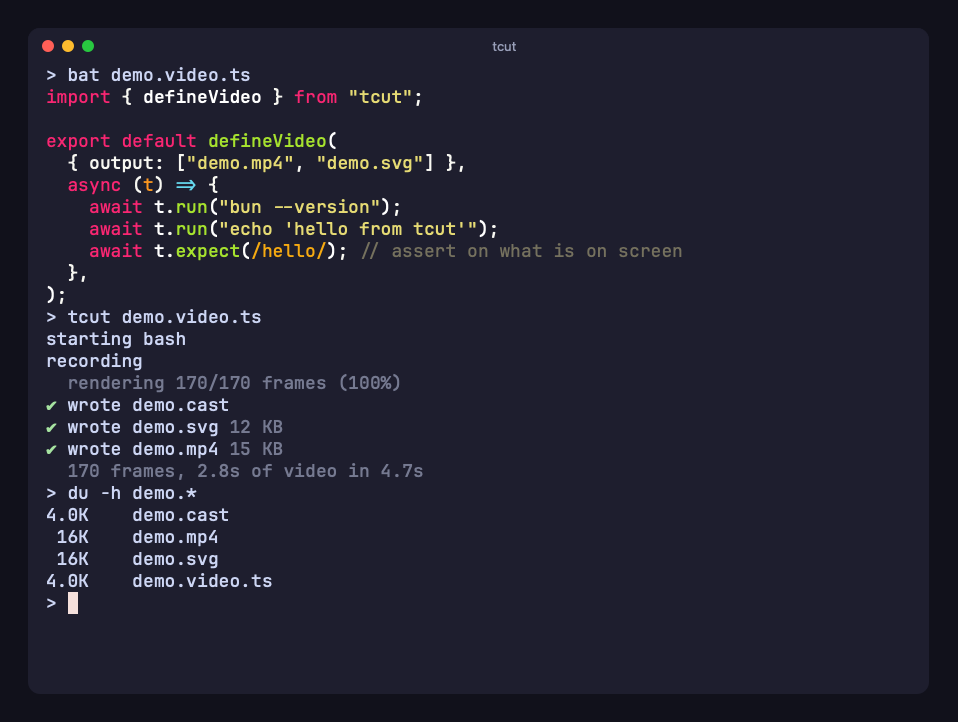
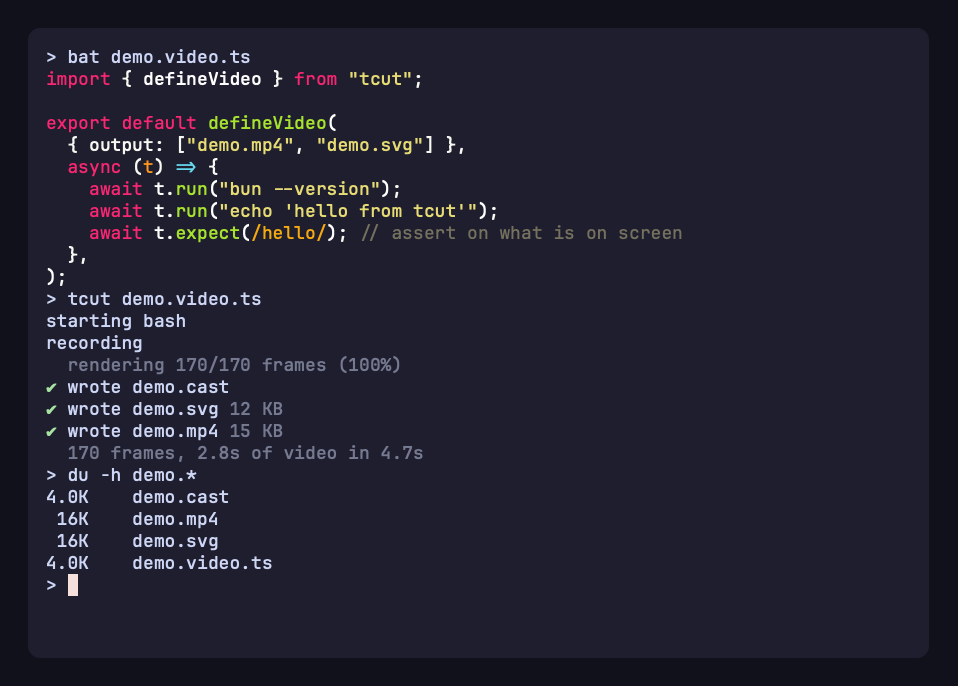
fix(web): remove the remaining stock landing-page furniture
No fake shell prompt in the install box, no macOS window bar on the demo
SVG (regenerated from the cast with windowBar none), neutral list marks
instead of accent-colored dashes and step counters, and slogan lines
replaced with plain statements.

diff --git a/apps/web/scripts/media.ts b/apps/web/scripts/media.ts
@@ -14,8 +14,8 @@ const rec = await readCast(cast);
 const base = rec.header.bunVideo;
 if (!base) throw new Error("demo.cast has no embedded tcut config; re-record with examples/readme.ts");
 
-// 1. Animated SVG + final-frame PNG, same chrome as the README demo.
-await renderOutputs(rec, { ...base, output: [path.join(assets, "demo.svg"), path.join(assets, "demo.png")] });
+// 1. Animated SVG + final-frame PNG. No window bar on the site: the terminal, nothing pretending to be a Mac.
+await renderOutputs(rec, { ...base, windowBar: "none", title: "", output: [path.join(assets, "demo.svg"), path.join(assets, "demo.png")] });
 
 // 2. Film strip: one frame per second, plain (no margin/bar) so the strip reads as frames.
 const framesDir = path.join(web, ".media-frames") + "/";

diff --git a/apps/web/src/styles/global.css b/apps/web/src/styles/global.css
@@ -123,27 +123,12 @@ h2 {
   content: "–";
   position: absolute;
   left: 0;
-  color: var(--color-amber-deep);
+  color: var(--color-ink-3);
 }
 
 .steps {
   list-style: none;
   padding: 0;
-  counter-reset: step;
-}
-.steps li {
-  position: relative;
-  padding-left: 2rem;
-}
-.steps li::before {
-  counter-increment: step;
-  content: counter(step);
-  position: absolute;
-  left: 0;
-  top: 0.05em;
-  font-family: var(--font-mono);
-  font-size: 0.85rem;
-  color: var(--color-amber-deep);
 }
 
 code,
